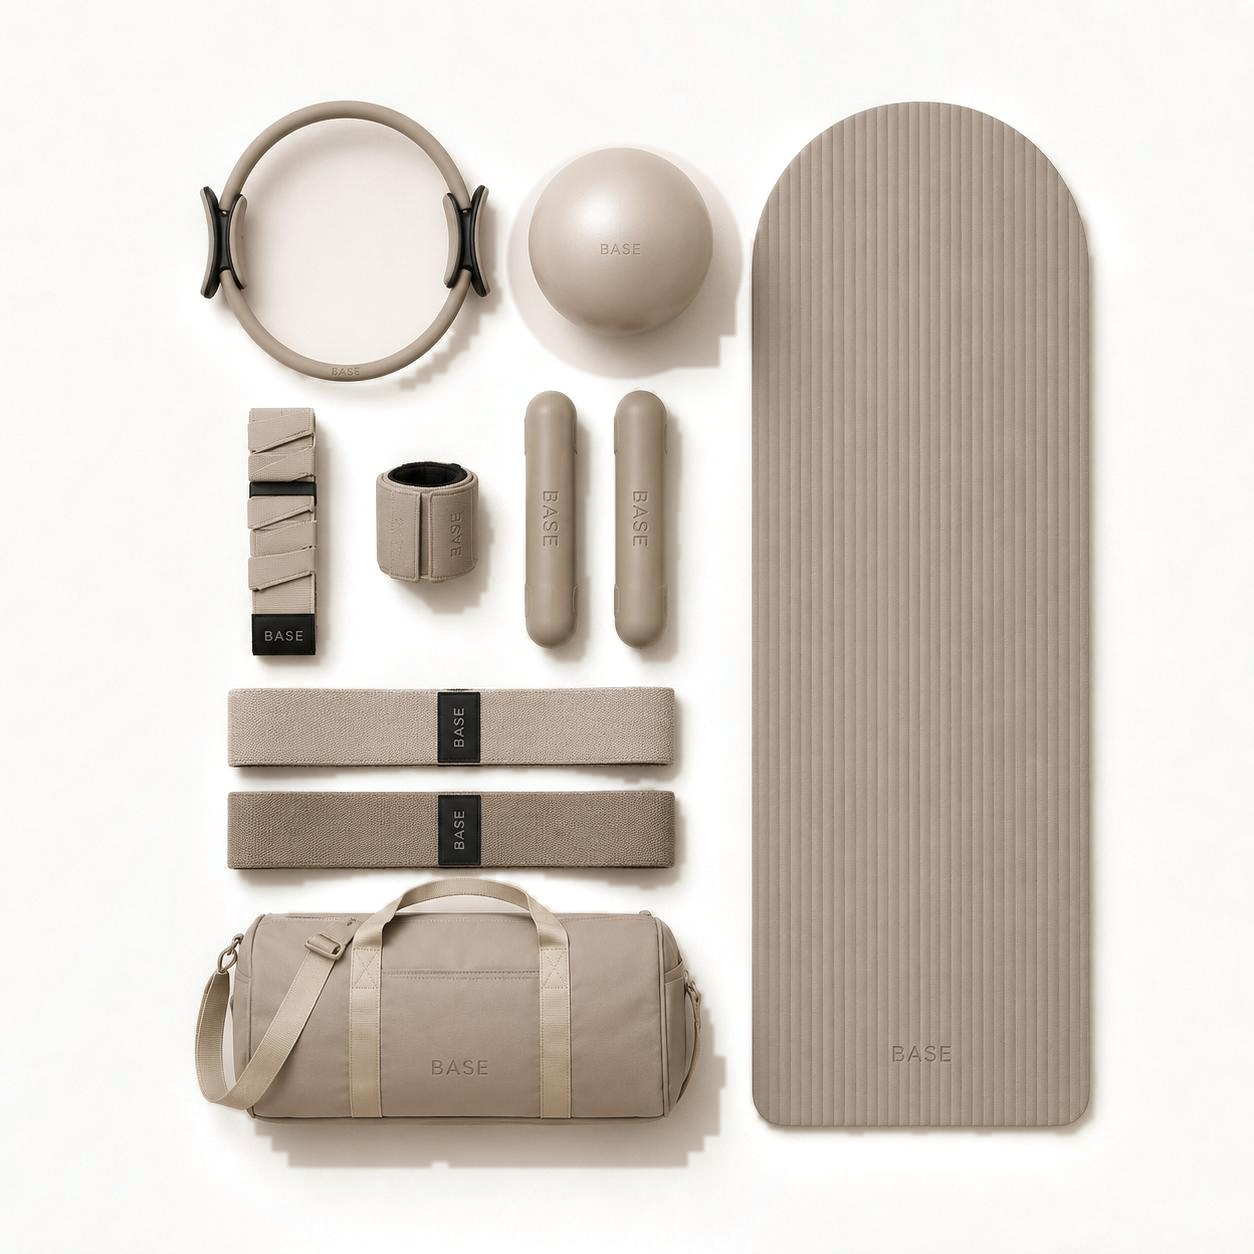
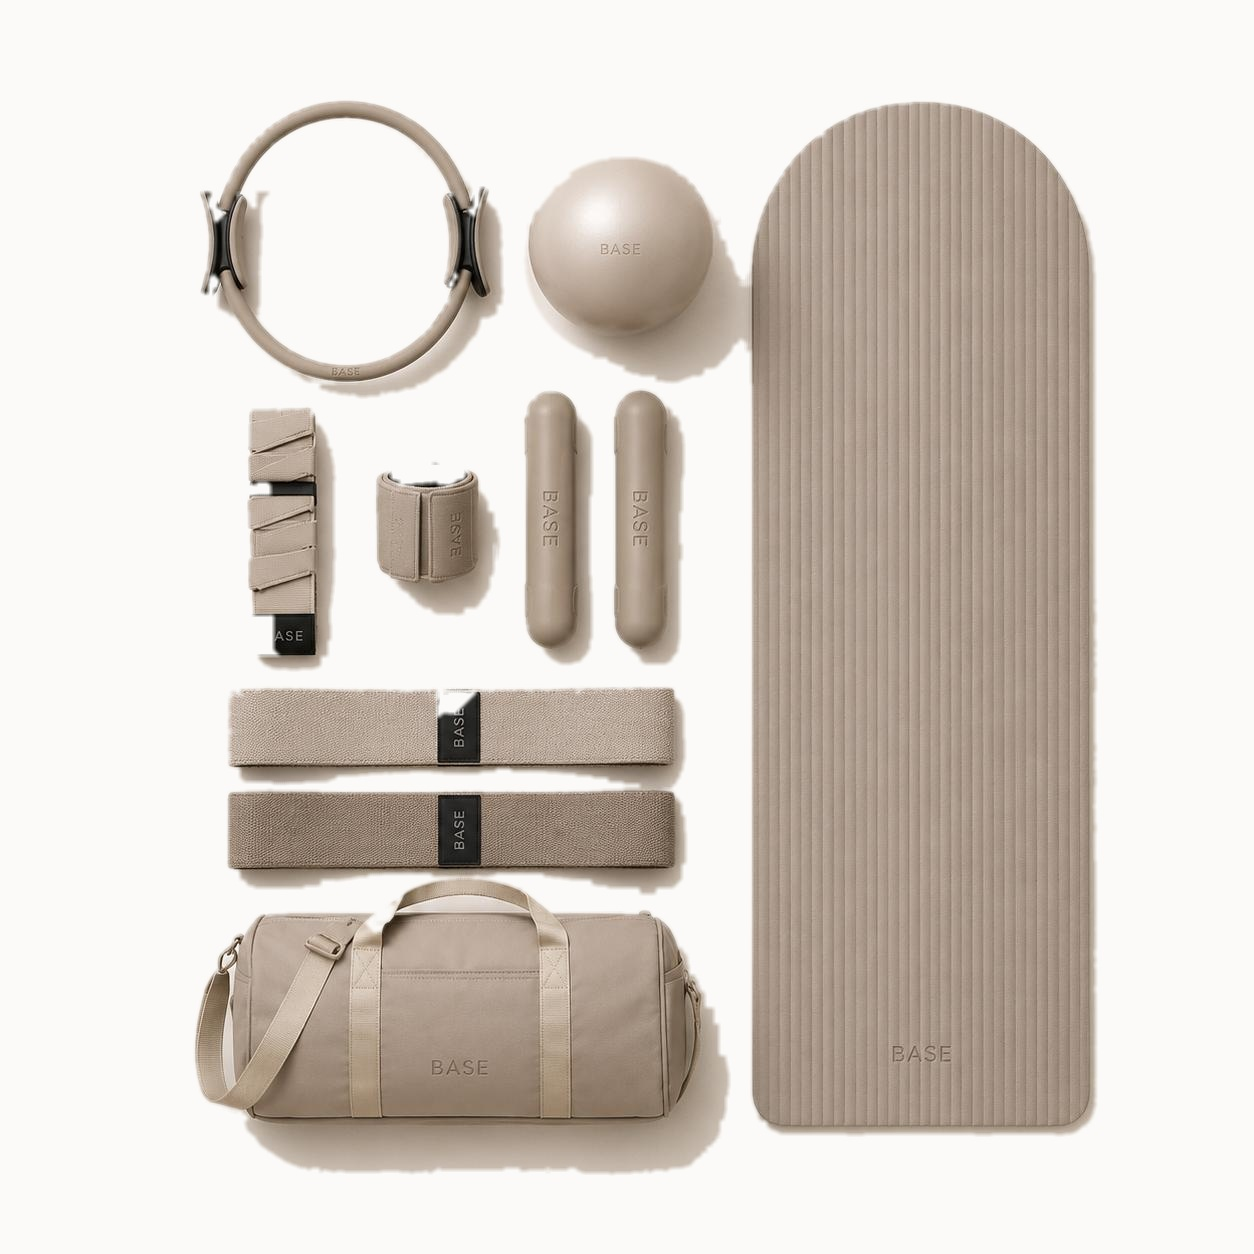
Clean cutout for Kit catalogue render; broaden hero audience copy
- Kit card render is now a clean cutout on flat white: solid product mask
  (colour/dark + tight ball circle), small-island removal, small-hole fill
  (ring centre stays open), and a light+neutral shadow-fringe trim, feathered.
  No warm block, halo, jagged shadows or filled ring. Focused homepage Kit
  section keeps the original warm render.
- Hero eyebrow/subheadline and category tagline no longer imply studios only —
  now speak to studios, hotels, clinics and wellness spaces (PT + EN).

Claude-Session: https://claude.ai/code/session_01HvyQyJMMjbpRPFY5Vp62nP

diff --git a/public/index.html b/public/index.html
@@ -124,9 +124,9 @@
     <img src="/assets/img/products/hero.jpg" alt="Estúdio Base Movement — reformer com torre e acessórios em tons neutros" width="1536" height="1024" decoding="async" class="photo hero__photo">
   </div>
   <div class="container prologue__content">
-    <p class="prologue__eyebrow" data-reveal="fade">Equipamentos Premium de Pilates para estúdios profissionais</p>
+    <p class="prologue__eyebrow" data-reveal="fade">Equipamentos Premium de Pilates para espaços profissionais</p>
     <h1 class="prologue__headline"><span class="line"><span style="--line-delay:200ms">Equipamos <em>estúdios.</em></span></span><span class="line"><span style="--line-delay:360ms">Inspiramos <em>movimento.</em></span></span></h1>
-    <p class="prologue__sub" data-reveal style="--reveal-delay:350ms">Equipamentos e acessórios concebidos para estúdios profissionais, com qualidade premium e personalização.</p>
+    <p class="prologue__sub" data-reveal style="--reveal-delay:350ms">Equipamentos e acessórios concebidos para estúdios, hotéis, clínicas e espaços de bem-estar, com qualidade premium e personalização.</p>
     <ul class="prologue__benefits" data-reveal style="--reveal-delay:430ms">
       <li>Personalização</li><li>Qualidade Premium</li><li>Entrega Internacional</li>
     </ul>
@@ -1049,7 +1049,7 @@
             <span class="brand-logo__tagline">Pilates Supply</span>
           </span>
         </a>
-        <p>Equipamento de Pilates concebido para estúdios profissionais e espaços premium.</p>
+        <p>Equipamento de Pilates concebido para estúdios, clínicas e espaços premium.</p>
         <div class="footer-social">
           <a href="https://www.instagram.com/basemovement.pilates/" aria-label="Instagram" target="_blank" rel="noopener"><svg viewBox="0 0 24 24" fill="none" stroke="currentColor" stroke-width="1.5" stroke-linecap="round" stroke-linejoin="round" aria-hidden="true"><rect x="3.5" y="3.5" width="17" height="17" rx="5"/><circle cx="12" cy="12" r="4"/><circle cx="17.2" cy="6.8" r="0.6" fill="currentColor" stroke="none"/></svg></a>
           <a href="https://www.linkedin.com/company/basemovement.pilates/" aria-label="LinkedIn" target="_blank" rel="noopener"><svg viewBox="0 0 24 24" fill="none" stroke="currentColor" stroke-width="1.5" stroke-linecap="round" stroke-linejoin="round" aria-hidden="true"><rect x="3.5" y="3.5" width="17" height="17" rx="2.5"/><path d="M8 10.5v6M8 7.8v.01M12 16.5v-3.6c0-1.2 1-2.1 2.1-2.1 1.2 0 2 .9 2 2.1v3.6"/></svg></a>

diff --git a/public/en/index.html b/public/en/index.html
@@ -124,9 +124,9 @@
     <img src="/assets/img/products/hero.jpg" alt="Base Movement studio — tower reformer and accessories in neutral tones" width="1536" height="1024" decoding="async" class="photo hero__photo">
   </div>
   <div class="container prologue__content">
-    <p class="prologue__eyebrow" data-reveal="fade">Premium Pilates equipment for professional studios</p>
+    <p class="prologue__eyebrow" data-reveal="fade">Premium Pilates equipment for professional spaces</p>
     <h1 class="prologue__headline"><span class="line"><span style="--line-delay:200ms">We equip <em>studios.</em></span></span><span class="line"><span style="--line-delay:360ms">We inspire <em>movement.</em></span></span></h1>
-    <p class="prologue__sub" data-reveal style="--reveal-delay:350ms">Equipment and accessories crafted for professional studios, premium quality, made to your specification.</p>
+    <p class="prologue__sub" data-reveal style="--reveal-delay:350ms">Equipment and accessories crafted for studios, hotels, clinics and wellness spaces, premium quality and made to your specification.</p>
     <ul class="prologue__benefits" data-reveal style="--reveal-delay:430ms">
       <li>Customisation</li><li>Premium Quality</li><li>International Delivery</li>
     </ul>
@@ -1049,7 +1049,7 @@
             <span class="brand-logo__tagline">Pilates Supply</span>
           </span>
         </a>
-        <p>Pilates equipment designed for professional studios and premium spaces.</p>
+        <p>Pilates equipment designed for studios, clinics and premium spaces.</p>
         <div class="footer-social">
           <a href="https://www.instagram.com/basemovement.pilates/" aria-label="Instagram" target="_blank" rel="noopener"><svg viewBox="0 0 24 24" fill="none" stroke="currentColor" stroke-width="1.5" stroke-linecap="round" stroke-linejoin="round" aria-hidden="true"><rect x="3.5" y="3.5" width="17" height="17" rx="5"/><circle cx="12" cy="12" r="4"/><circle cx="17.2" cy="6.8" r="0.6" fill="currentColor" stroke="none"/></svg></a>
           <a href="https://www.linkedin.com/company/basemovement.pilates/" aria-label="LinkedIn" target="_blank" rel="noopener"><svg viewBox="0 0 24 24" fill="none" stroke="currentColor" stroke-width="1.5" stroke-linecap="round" stroke-linejoin="round" aria-hidden="true"><rect x="3.5" y="3.5" width="17" height="17" rx="2.5"/><path d="M8 10.5v6M8 7.8v.01M12 16.5v-3.6c0-1.2 1-2.1 2.1-2.1 1.2 0 2 .9 2 2.1v3.6"/></svg></a>

diff --git a/public/404.html b/public/404.html
@@ -145,7 +145,7 @@
             <span class="brand-logo__tagline">Pilates Supply</span>
           </span>
         </a>
-        <p>Equipamento de Pilates concebido para estúdios profissionais e espaços premium.</p>
+        <p>Equipamento de Pilates concebido para estúdios, clínicas e espaços premium.</p>
         <div class="footer-social">
           <a href="https://www.instagram.com/basemovement.pilates/" aria-label="Instagram" target="_blank" rel="noopener"><svg viewBox="0 0 24 24" fill="none" stroke="currentColor" stroke-width="1.5" stroke-linecap="round" stroke-linejoin="round" aria-hidden="true"><rect x="3.5" y="3.5" width="17" height="17" rx="5"/><circle cx="12" cy="12" r="4"/><circle cx="17.2" cy="6.8" r="0.6" fill="currentColor" stroke="none"/></svg></a>
           <a href="https://www.linkedin.com/company/basemovement.pilates/" aria-label="LinkedIn" target="_blank" rel="noopener"><svg viewBox="0 0 24 24" fill="none" stroke="currentColor" stroke-width="1.5" stroke-linecap="round" stroke-linejoin="round" aria-hidden="true"><rect x="3.5" y="3.5" width="17" height="17" rx="2.5"/><path d="M8 10.5v6M8 7.8v.01M12 16.5v-3.6c0-1.2 1-2.1 2.1-2.1 1.2 0 2 .9 2 2.1v3.6"/></svg></a>

diff --git a/public/catalogo/blocks-balls/index.html b/public/catalogo/blocks-balls/index.html
@@ -218,7 +218,7 @@
             <span class="brand-logo__tagline">Pilates Supply</span>
           </span>
         </a>
-        <p>Equipamento de Pilates concebido para estúdios profissionais e espaços premium.</p>
+        <p>Equipamento de Pilates concebido para estúdios, clínicas e espaços premium.</p>
         <div class="footer-social">
           <a href="https://www.instagram.com/basemovement.pilates/" aria-label="Instagram" target="_blank" rel="noopener"><svg viewBox="0 0 24 24" fill="none" stroke="currentColor" stroke-width="1.5" stroke-linecap="round" stroke-linejoin="round" aria-hidden="true"><rect x="3.5" y="3.5" width="17" height="17" rx="5"/><circle cx="12" cy="12" r="4"/><circle cx="17.2" cy="6.8" r="0.6" fill="currentColor" stroke="none"/></svg></a>
           <a href="https://www.linkedin.com/company/basemovement.pilates/" aria-label="LinkedIn" target="_blank" rel="noopener"><svg viewBox="0 0 24 24" fill="none" stroke="currentColor" stroke-width="1.5" stroke-linecap="round" stroke-linejoin="round" aria-hidden="true"><rect x="3.5" y="3.5" width="17" height="17" rx="2.5"/><path d="M8 10.5v6M8 7.8v.01M12 16.5v-3.6c0-1.2 1-2.1 2.1-2.1 1.2 0 2 .9 2 2.1v3.6"/></svg></a>

diff --git a/public/catalogo/boards/index.html b/public/catalogo/boards/index.html
@@ -278,7 +278,7 @@
             <span class="brand-logo__tagline">Pilates Supply</span>
           </span>
         </a>
-        <p>Equipamento de Pilates concebido para estúdios profissionais e espaços premium.</p>
+        <p>Equipamento de Pilates concebido para estúdios, clínicas e espaços premium.</p>
         <div class="footer-social">
           <a href="https://www.instagram.com/basemovement.pilates/" aria-label="Instagram" target="_blank" rel="noopener"><svg viewBox="0 0 24 24" fill="none" stroke="currentColor" stroke-width="1.5" stroke-linecap="round" stroke-linejoin="round" aria-hidden="true"><rect x="3.5" y="3.5" width="17" height="17" rx="5"/><circle cx="12" cy="12" r="4"/><circle cx="17.2" cy="6.8" r="0.6" fill="currentColor" stroke="none"/></svg></a>
           <a href="https://www.linkedin.com/company/basemovement.pilates/" aria-label="LinkedIn" target="_blank" rel="noopener"><svg viewBox="0 0 24 24" fill="none" stroke="currentColor" stroke-width="1.5" stroke-linecap="round" stroke-linejoin="round" aria-hidden="true"><rect x="3.5" y="3.5" width="17" height="17" rx="2.5"/><path d="M8 10.5v6M8 7.8v.01M12 16.5v-3.6c0-1.2 1-2.1 2.1-2.1 1.2 0 2 .9 2 2.1v3.6"/></svg></a>

diff --git a/public/catalogo/cadillacs/index.html b/public/catalogo/cadillacs/index.html
@@ -328,7 +328,7 @@
             <span class="brand-logo__tagline">Pilates Supply</span>
           </span>
         </a>
-        <p>Equipamento de Pilates concebido para estúdios profissionais e espaços premium.</p>
+        <p>Equipamento de Pilates concebido para estúdios, clínicas e espaços premium.</p>
         <div class="footer-social">
           <a href="https://www.instagram.com/basemovement.pilates/" aria-label="Instagram" target="_blank" rel="noopener"><svg viewBox="0 0 24 24" fill="none" stroke="currentColor" stroke-width="1.5" stroke-linecap="round" stroke-linejoin="round" aria-hidden="true"><rect x="3.5" y="3.5" width="17" height="17" rx="5"/><circle cx="12" cy="12" r="4"/><circle cx="17.2" cy="6.8" r="0.6" fill="currentColor" stroke="none"/></svg></a>
           <a href="https://www.linkedin.com/company/basemovement.pilates/" aria-label="LinkedIn" target="_blank" rel="noopener"><svg viewBox="0 0 24 24" fill="none" stroke="currentColor" stroke-width="1.5" stroke-linecap="round" stroke-linejoin="round" aria-hidden="true"><rect x="3.5" y="3.5" width="17" height="17" rx="2.5"/><path d="M8 10.5v6M8 7.8v.01M12 16.5v-3.6c0-1.2 1-2.1 2.1-2.1 1.2 0 2 .9 2 2.1v3.6"/></svg></a>

diff --git a/public/catalogo/chairs-barrels/index.html b/public/catalogo/chairs-barrels/index.html
@@ -341,7 +341,7 @@
             <span class="brand-logo__tagline">Pilates Supply</span>
           </span>
         </a>
-        <p>Equipamento de Pilates concebido para estúdios profissionais e espaços premium.</p>
+        <p>Equipamento de Pilates concebido para estúdios, clínicas e espaços premium.</p>
         <div class="footer-social">
           <a href="https://www.instagram.com/basemovement.pilates/" aria-label="Instagram" target="_blank" rel="noopener"><svg viewBox="0 0 24 24" fill="none" stroke="currentColor" stroke-width="1.5" stroke-linecap="round" stroke-linejoin="round" aria-hidden="true"><rect x="3.5" y="3.5" width="17" height="17" rx="5"/><circle cx="12" cy="12" r="4"/><circle cx="17.2" cy="6.8" r="0.6" fill="currentColor" stroke="none"/></svg></a>
           <a href="https://www.linkedin.com/company/basemovement.pilates/" aria-label="LinkedIn" target="_blank" rel="noopener"><svg viewBox="0 0 24 24" fill="none" stroke="currentColor" stroke-width="1.5" stroke-linecap="round" stroke-linejoin="round" aria-hidden="true"><rect x="3.5" y="3.5" width="17" height="17" rx="2.5"/><path d="M8 10.5v6M8 7.8v.01M12 16.5v-3.6c0-1.2 1-2.1 2.1-2.1 1.2 0 2 .9 2 2.1v3.6"/></svg></a>

diff --git a/public/catalogo/folding-reformers/index.html b/public/catalogo/folding-reformers/index.html
@@ -302,7 +302,7 @@
             <span class="brand-logo__tagline">Pilates Supply</span>
           </span>
         </a>
-        <p>Equipamento de Pilates concebido para estúdios profissionais e espaços premium.</p>
+        <p>Equipamento de Pilates concebido para estúdios, clínicas e espaços premium.</p>
         <div class="footer-social">
           <a href="https://www.instagram.com/basemovement.pilates/" aria-label="Instagram" target="_blank" rel="noopener"><svg viewBox="0 0 24 24" fill="none" stroke="currentColor" stroke-width="1.5" stroke-linecap="round" stroke-linejoin="round" aria-hidden="true"><rect x="3.5" y="3.5" width="17" height="17" rx="5"/><circle cx="12" cy="12" r="4"/><circle cx="17.2" cy="6.8" r="0.6" fill="currentColor" stroke="none"/></svg></a>
           <a href="https://www.linkedin.com/company/basemovement.pilates/" aria-label="LinkedIn" target="_blank" rel="noopener"><svg viewBox="0 0 24 24" fill="none" stroke="currentColor" stroke-width="1.5" stroke-linecap="round" stroke-linejoin="round" aria-hidden="true"><rect x="3.5" y="3.5" width="17" height="17" rx="2.5"/><path d="M8 10.5v6M8 7.8v.01M12 16.5v-3.6c0-1.2 1-2.1 2.1-2.1 1.2 0 2 .9 2 2.1v3.6"/></svg></a>

diff --git a/public/catalogo/glute-trainers/index.html b/public/catalogo/glute-trainers/index.html
@@ -198,7 +198,7 @@
             <span class="brand-logo__tagline">Pilates Supply</span>
           </span>
         </a>
-        <p>Equipamento de Pilates concebido para estúdios profissionais e espaços premium.</p>
+        <p>Equipamento de Pilates concebido para estúdios, clínicas e espaços premium.</p>
         <div class="footer-social">
           <a href="https://www.instagram.com/basemovement.pilates/" aria-label="Instagram" target="_blank" rel="noopener"><svg viewBox="0 0 24 24" fill="none" stroke="currentColor" stroke-width="1.5" stroke-linecap="round" stroke-linejoin="round" aria-hidden="true"><rect x="3.5" y="3.5" width="17" height="17" rx="5"/><circle cx="12" cy="12" r="4"/><circle cx="17.2" cy="6.8" r="0.6" fill="currentColor" stroke="none"/></svg></a>
           <a href="https://www.linkedin.com/company/basemovement.pilates/" aria-label="LinkedIn" target="_blank" rel="noopener"><svg viewBox="0 0 24 24" fill="none" stroke="currentColor" stroke-width="1.5" stroke-linecap="round" stroke-linejoin="round" aria-hidden="true"><rect x="3.5" y="3.5" width="17" height="17" rx="2.5"/><path d="M8 10.5v6M8 7.8v.01M12 16.5v-3.6c0-1.2 1-2.1 2.1-2.1 1.2 0 2 .9 2 2.1v3.6"/></svg></a>

diff --git a/public/catalogo/home-line/index.html b/public/catalogo/home-line/index.html
@@ -315,7 +315,7 @@
             <span class="brand-logo__tagline">Pilates Supply</span>
           </span>
         </a>
-        <p>Equipamento de Pilates concebido para estúdios profissionais e espaços premium.</p>
+        <p>Equipamento de Pilates concebido para estúdios, clínicas e espaços premium.</p>
         <div class="footer-social">
           <a href="https://www.instagram.com/basemovement.pilates/" aria-label="Instagram" target="_blank" rel="noopener"><svg viewBox="0 0 24 24" fill="none" stroke="currentColor" stroke-width="1.5" stroke-linecap="round" stroke-linejoin="round" aria-hidden="true"><rect x="3.5" y="3.5" width="17" height="17" rx="5"/><circle cx="12" cy="12" r="4"/><circle cx="17.2" cy="6.8" r="0.6" fill="currentColor" stroke="none"/></svg></a>
           <a href="https://www.linkedin.com/company/basemovement.pilates/" aria-label="LinkedIn" target="_blank" rel="noopener"><svg viewBox="0 0 24 24" fill="none" stroke="currentColor" stroke-width="1.5" stroke-linecap="round" stroke-linejoin="round" aria-hidden="true"><rect x="3.5" y="3.5" width="17" height="17" rx="2.5"/><path d="M8 10.5v6M8 7.8v.01M12 16.5v-3.6c0-1.2 1-2.1 2.1-2.1 1.2 0 2 .9 2 2.1v3.6"/></svg></a>

diff --git a/public/catalogo/index.html b/public/catalogo/index.html
@@ -349,7 +349,7 @@
             <span class="brand-logo__tagline">Pilates Supply</span>
           </span>
         </a>
-        <p>Equipamento de Pilates concebido para estúdios profissionais e espaços premium.</p>
+        <p>Equipamento de Pilates concebido para estúdios, clínicas e espaços premium.</p>
         <div class="footer-social">
           <a href="https://www.instagram.com/basemovement.pilates/" aria-label="Instagram" target="_blank" rel="noopener"><svg viewBox="0 0 24 24" fill="none" stroke="currentColor" stroke-width="1.5" stroke-linecap="round" stroke-linejoin="round" aria-hidden="true"><rect x="3.5" y="3.5" width="17" height="17" rx="5"/><circle cx="12" cy="12" r="4"/><circle cx="17.2" cy="6.8" r="0.6" fill="currentColor" stroke="none"/></svg></a>
           <a href="https://www.linkedin.com/company/basemovement.pilates/" aria-label="LinkedIn" target="_blank" rel="noopener"><svg viewBox="0 0 24 24" fill="none" stroke="currentColor" stroke-width="1.5" stroke-linecap="round" stroke-linejoin="round" aria-hidden="true"><rect x="3.5" y="3.5" width="17" height="17" rx="2.5"/><path d="M8 10.5v6M8 7.8v.01M12 16.5v-3.6c0-1.2 1-2.1 2.1-2.1 1.2 0 2 .9 2 2.1v3.6"/></svg></a>

diff --git a/public/catalogo/jump-ropes/index.html b/public/catalogo/jump-ropes/index.html
@@ -218,7 +218,7 @@
             <span class="brand-logo__tagline">Pilates Supply</span>
           </span>
         </a>
-        <p>Equipamento de Pilates concebido para estúdios profissionais e espaços premium.</p>
+        <p>Equipamento de Pilates concebido para estúdios, clínicas e espaços premium.</p>
         <div class="footer-social">
           <a href="https://www.instagram.com/basemovement.pilates/" aria-label="Instagram" target="_blank" rel="noopener"><svg viewBox="0 0 24 24" fill="none" stroke="currentColor" stroke-width="1.5" stroke-linecap="round" stroke-linejoin="round" aria-hidden="true"><rect x="3.5" y="3.5" width="17" height="17" rx="5"/><circle cx="12" cy="12" r="4"/><circle cx="17.2" cy="6.8" r="0.6" fill="currentColor" stroke="none"/></svg></a>
           <a href="https://www.linkedin.com/company/basemovement.pilates/" aria-label="LinkedIn" target="_blank" rel="noopener"><svg viewBox="0 0 24 24" fill="none" stroke="currentColor" stroke-width="1.5" stroke-linecap="round" stroke-linejoin="round" aria-hidden="true"><rect x="3.5" y="3.5" width="17" height="17" rx="2.5"/><path d="M8 10.5v6M8 7.8v.01M12 16.5v-3.6c0-1.2 1-2.1 2.1-2.1 1.2 0 2 .9 2 2.1v3.6"/></svg></a>
